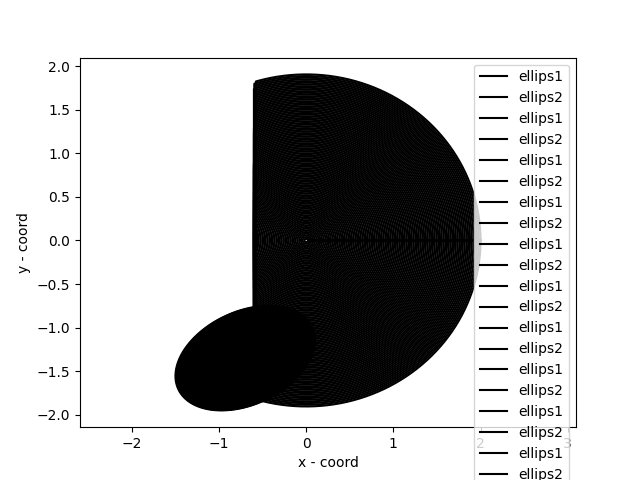
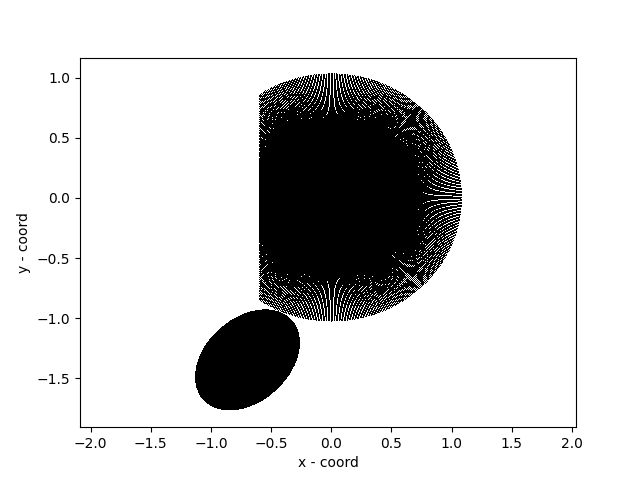
iljsdrgoihbf

diff --git a/chernovik.py b/chernovik.py
@@ -23,12 +23,11 @@ def ellips1(A, B, C, D):
     x3 = C * np.cos(phi) - 0.7
     y3 = D * np.sin(phi + 20/180*np.pi) - 1.35 + 0.2*np.sin(phi + 20/180*np.pi)
 
-    plt.plot(x2, y2, label='ellips1', color='k')
-    plt.plot(x3, y3, label='ellips2', color='k')
-    plt.legend()
+    plt.plot(x2, y2, ',', color='k', )
+    plt.plot(x3, y3, ',', color='k')
     plt.xlabel('x - coord')
     plt.ylabel('y - coord')
     plt.savefig('chernovik.png')
 
-for j in np.linspace(0, 2, 100):
+for j in np.linspace(0, 2, 500):
     ellips1(j, j/1.05, j/2.5, j/5)
